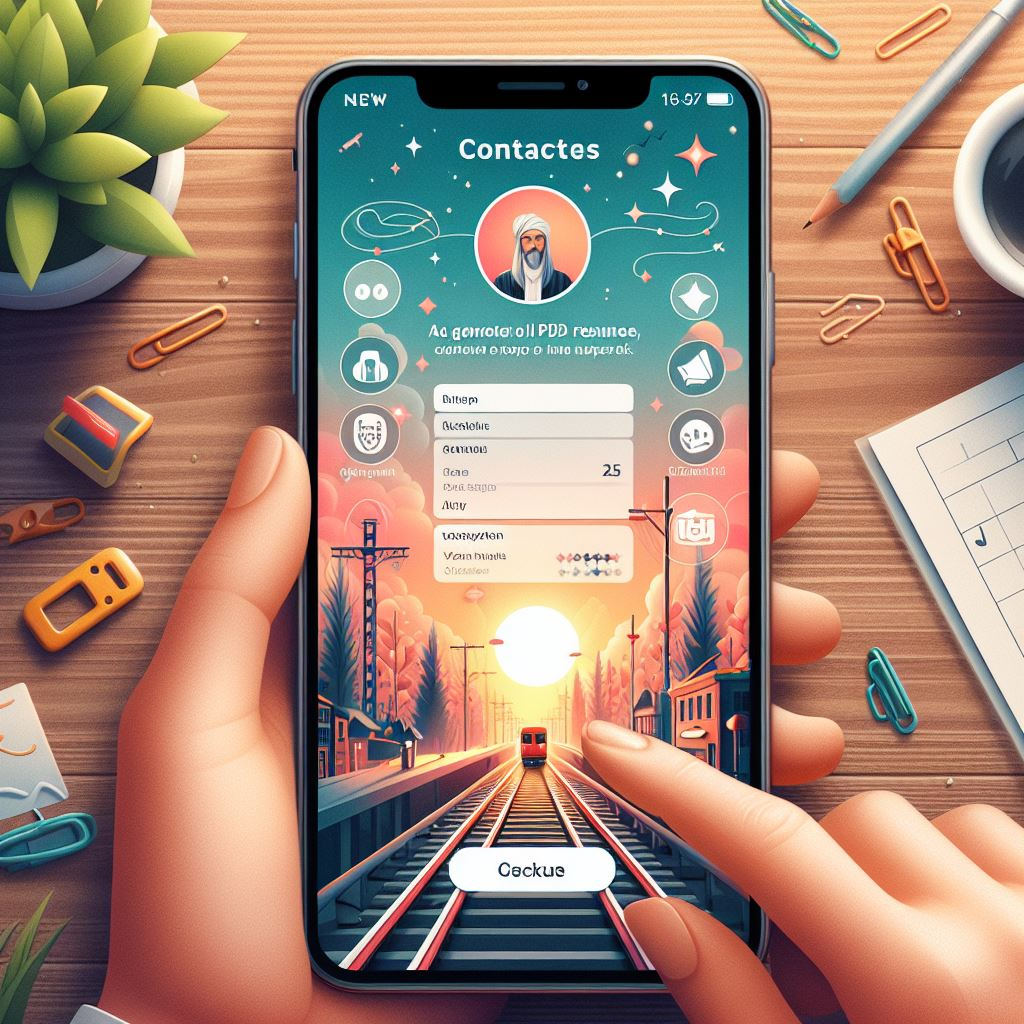
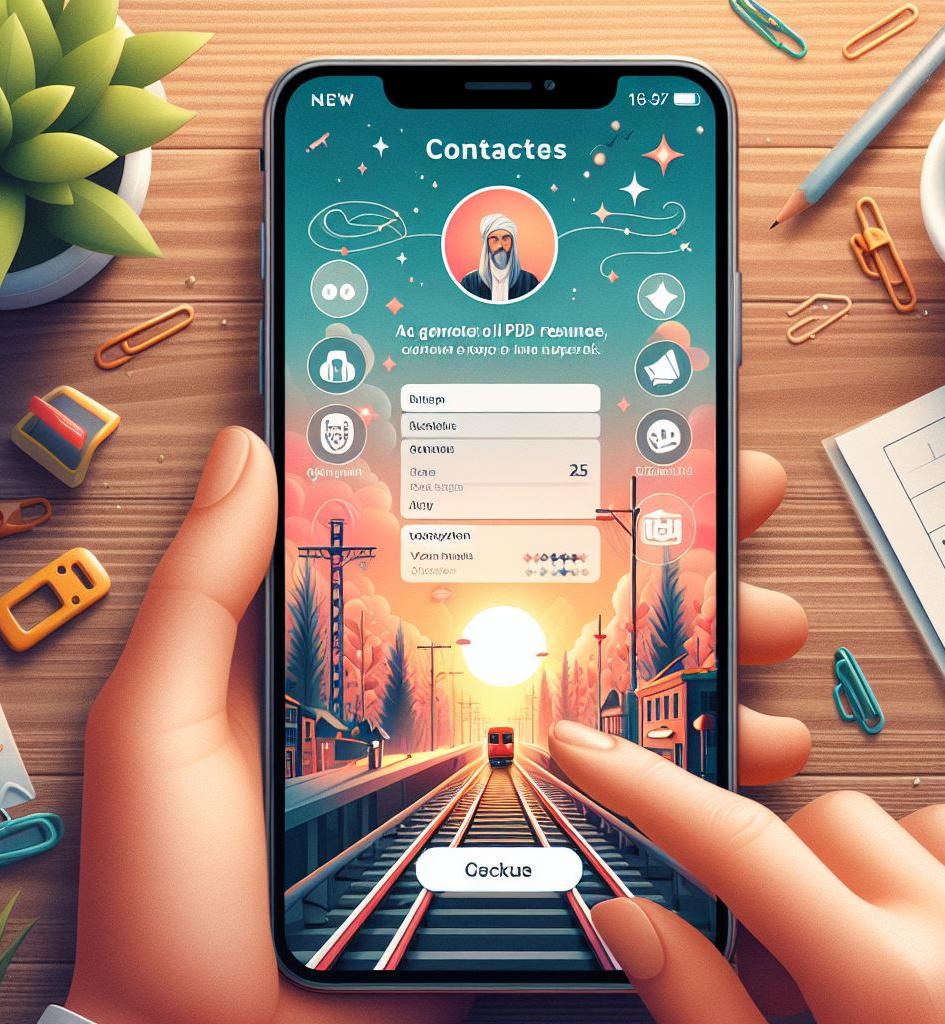
Actualización de la vista FormDataAcademies

diff --git a/src/main/resources/org/JavviFdeez/css/FormDataContact.css b/src/main/resources/org/JavviFdeez/css/FormDataContact.css
@@ -42,14 +42,14 @@
 #buttonSaveData {
     -fx-background-color: #000000; /* Color inicial */
     -fx-background-radius: 5;
-    -fx-border-color: #00ff4d;
+    -fx-border-color: #a896cd;
     -fx-border-radius: 5;
     -fx-text-fill: #ffffff;
     -fx-padding: 10 20;
-    -fx-font-size: 20px;
+    -fx-font-size: 25px;
     -fx-font-family: "Roboto Bold";
     -fx-cursor: hand; /* Cambia el cursor al pasar sobre el botón */
-    -fx-effect: dropshadow(three-pass-box, #00ff4d, 10, 0, 0, 0);
+    -fx-effect: dropshadow(three-pass-box, #b6b6b6, 10, 0, 0, 0);
     -fx-translate-x: 0;
     -fx-translate-y: 0;
     -fx-scale-x: 1;
@@ -58,11 +58,11 @@
 }
 
 #buttonSaveData:hover {
-    -fx-background-color: #000000; /* Color final */
+    -fx-background-color: #a896cd; /* Color final */
     -fx-background-radius: 5;
-    -fx-border-color: #ffffff;
+    -fx-border-color: #000000;
     -fx-border-radius: 5;
-    -fx-text-fill: #00ff4d;
+    -fx-text-fill: #000000;
     -fx-padding: 10 20;
     -fx-font-size: 20px;
     -fx-font-family: "Roboto Bold";
@@ -74,9 +74,9 @@
 }
 
 #buttonSaveData:hover:pressed {
-    -fx-background-color: #00ff4d;
-    -fx-text-fill: #000000;
-    -fx-border-color: #ffffff;
+    -fx-background-color: #000000;
+    -fx-text-fill: #ffffff;
+    -fx-border-color: #a896cd;
     -fx-background-radius: 5;
     -fx-border-radius: 5;
     -fx-scale-x: 1;

diff --git a/src/main/java/org/JavviFdeez/controller/view/FormDataContactController.java b/src/main/java/org/JavviFdeez/controller/view/FormDataContactController.java
@@ -2,14 +2,18 @@ package org.JavviFdeez.controller.view;
 
 import javafx.application.Platform;
 import javafx.fxml.FXML;
+import javafx.fxml.FXMLLoader;
 import javafx.fxml.Initializable;
 
+import javafx.scene.Parent;
+import javafx.scene.Scene;
 import javafx.scene.control.Alert;
 import javafx.scene.control.Button;
 import javafx.scene.control.TextField;
 import javafx.scene.image.Image;
 import javafx.scene.image.ImageView;
 import javafx.stage.FileChooser;
+import javafx.stage.Stage;
 import org.JavviFdeez.controller.ContactController;
 import org.JavviFdeez.model.connection.ConnectionMariaDB;
 import org.JavviFdeez.model.dao.ContactDAO;
@@ -113,13 +117,33 @@ public class FormDataContactController implements Initializable {
                 if (saveDataToDatabase) {
                     showAlert("Exito", "Los datos se han guardado exitosamente", Alert.AlertType.INFORMATION);
                     // Cambiar a la escena de inicio de sesión después de guardar el usuario
-                    // changeSceneToFormData();
+                    changeSceneToFormData();
                 } else {
                     showAlert("Error", "No se han podido guardar los datos", Alert.AlertType.ERROR);
                 }
         } catch (SQLException e) {
             e.printStackTrace();
             showAlert("Error", e.getMessage(), Alert.AlertType.ERROR);
+        }
+    }
+
+    private void changeSceneToFormData() {
+        try {
+            // Cargar la nueva escena desde el archivo FXML
+            FXMLLoader loader = new FXMLLoader(getClass().getResource("/org/JavviFdeez/fxml/FormDataAcademies.fxml"));
+            Parent root = loader.load();
+
+            // Obtener el escenario actual desde el emailTextField (o cualquier otro nodo)
+            Stage stage = (Stage) emailTextField.getScene().getWindow();
+
+            // Establecer la nueva escena en el escenario
+            Scene scene = new Scene(root);
+            stage.setScene(scene);
+            stage.show();
+        } catch (IOException e) {
+            e.printStackTrace();
+            // Manejar cualquier error de carga del archivo FXML
+            showAlert("Error", "No se pudo cargar la pantalla de inicio de sesión.", Alert.AlertType.ERROR);
         }
     }
 
@@ -151,7 +175,6 @@ public class FormDataContactController implements Initializable {
 
                 // Guardar la ruta relativa
                 imageRelativePath = outputPath.toString();
-                showAlert("Exito", "Imagen guardada",  Alert.AlertType.INFORMATION);
             } catch (IOException e) {
                 e.printStackTrace();
             }
